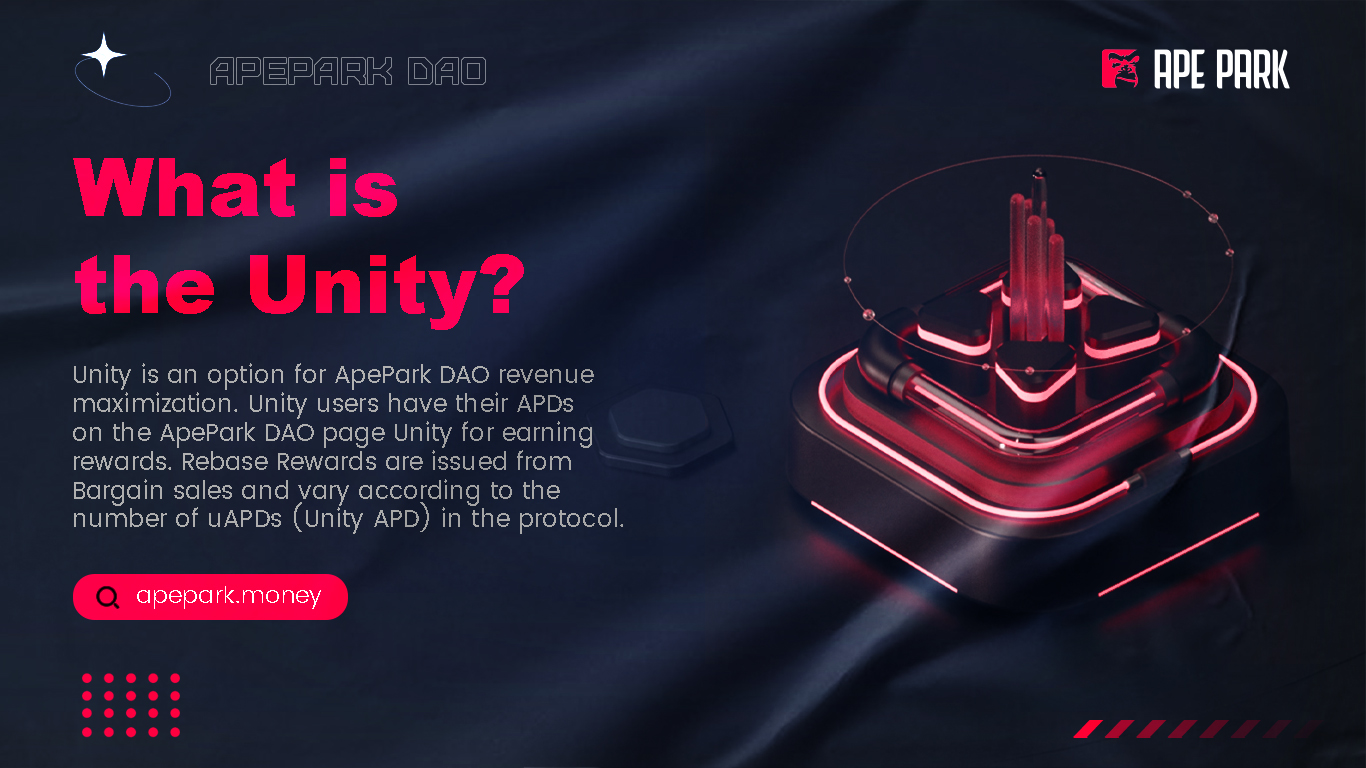
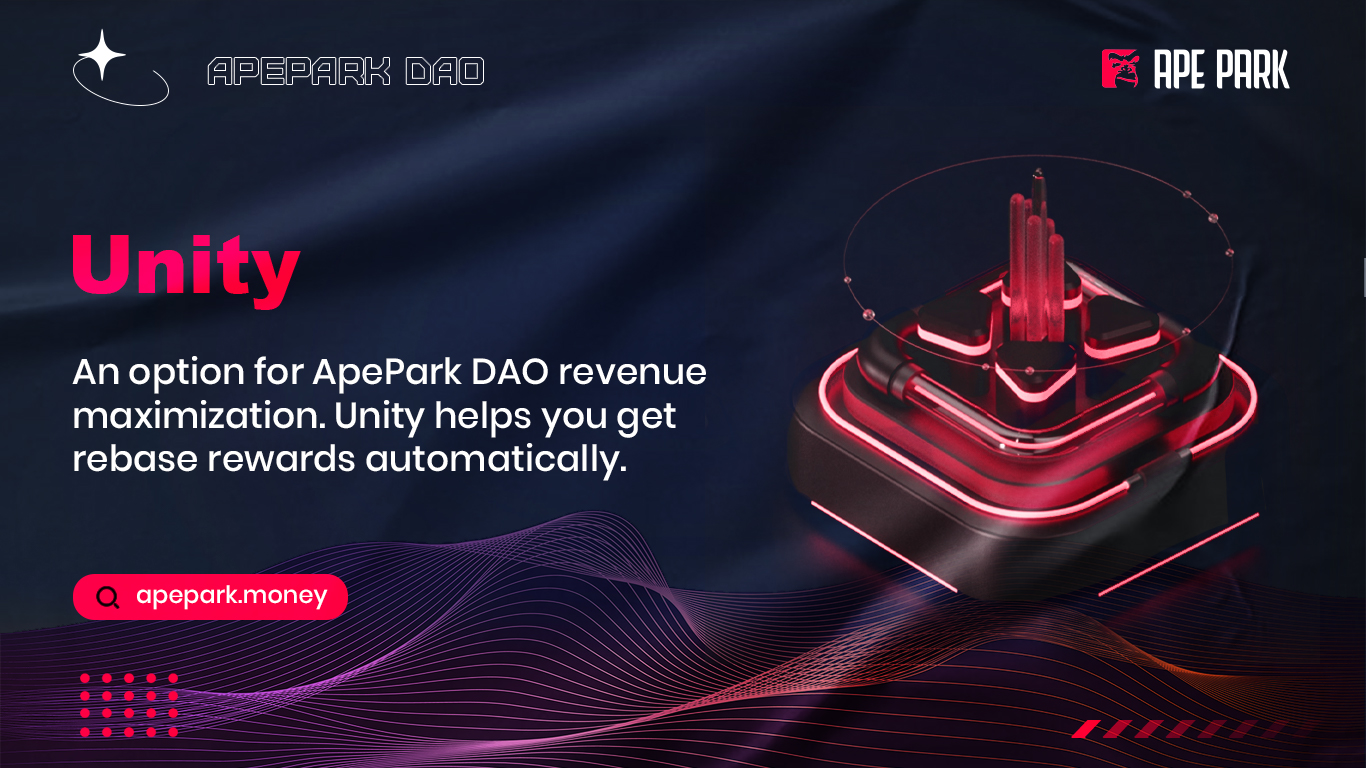
GitBook: [#25] No subject

diff --git a/using-the-website/purchase-a-bargain.md b/using-the-website/purchase-a-bargain.md
@@ -21,7 +21,7 @@ For both types of Bargains, it is a one-click transaction as the user is require
 * **Market Price** is the market price of APD.
 * **You Will Get** tells you how many APD you will get from Bargain.
 * **Debt Ratio** measures the total amount of APD created from Bargains that have yet to be paid out by the protocol.
-* **Vesting Term** measures the period a Bargain takes to fully redeem. This number is in BNB Chain blocks. 540,000 blocks are approximately 5 days or 15 epochs.
+* **Vesting Term** measures the period a Bargain takes to fully redeem. This number is in BNB Chain blocks. 1,512,000 blocks are approximately 14 days or 42 epochs.
 * **Discount** is the difference between the Bargain price and the market price.
 * **Pending Rewards** is the amount of APD you are entitled to receive from Bargain.
 * **Claimable Rewards** is the amount of APD you can claim now. This amount keeps increasing as APD is vested linearly to you over the Bargain period.

diff --git a/mechanism/bouns.md b/mechanism/bouns.md
@@ -2,7 +2,7 @@
 
 ## What is Bouns?
 
-
+![](../.gitbook/assets/Bonus.jpg)
 
 Bonus is as an extra allowance. ApeParkDAO uses the Bonus mechanism to stimulate buying sentiment in the market, and increase and activate potential users who buy Bargain while acquiring liquidity and other reserve assets. A portion of SellFee will go into the Bonus Pool contract. If the Bonus Pool reaches 10,000 USDT, the contract will draw 1 reward from the last 10 addresses that purchased Bargain with more than 1,000 USDT, and the reward amount is 1,000 USDT. The conditions for participating in the Bonus lottery are as follows: addresses that purchase Bargain with an amount of more than 1,000 USDT can participate in the lottery. If there are less than 10 addresses that purchase Bargain with an amount of more than 1000USDT, the Bonus distribution will be cancelled for this round, and the SellFee will enter the Cave to supply the operating funds of ApeParkDAO.
 

diff --git a/basics/ido.md b/basics/ido.md
@@ -2,7 +2,7 @@
 
 ## IDO event
 
-ApeParkDAO IDO is raising a total of $500,000 USDT at $10 per APD.
+ApeParkDAO IDO is raising a total of $500,000 USDT at $5 per APD.
 
 ## How will our IDO be conducted？
 
@@ -14,7 +14,7 @@ Whitelisted participants can access IDO within 24 hours. They can buy any amount
 
 The team plans to allocate the funds raised (USDT) during the IDO event as follows:
 
-* 200,000 USDT (40%) creates liquidity pools at the ratio of 1 APD = 12.5 USDT. LP tokens will be locked in the Cave.
+* 200,000 USDT (40%) creates liquidity pools. LP tokens will be locked in the Cave.
 * 200,000 USDT (40%) for the Cave to ensure the intrinsic value of APD.
 * 100,000 USDT (20%) for buyback and burn
 

diff --git a/mechanism/unity.md b/mechanism/unity.md
@@ -2,6 +2,8 @@
 
 ## What is Unity?
 
+![](../.gitbook/assets/Unity.jpg)
+
 Unity is an option for ApeParkDAO revenue maximization. Unity users have their APDs on the ApeParkDAO page Unity for earning rewards. Rebase Rewards are issued from Bargain sales and vary according to the number of uAPDs (Unity APD) in the protocol.
 
 Unity is a passive and long-term strategy. Your uAPD will gradually increase and your cost base will continue to decline. In other words, even if the market price drops below the price you buy, when most users take the APD they buy to Unity, and Unity is long enough, your uAPD balance will grow faster than the price drop.

diff --git a/mechanism/bargain.md b/mechanism/bargain.md
@@ -2,7 +2,7 @@
 
 ## What is Bargain?
 
-
+![](../.gitbook/assets/Bargain.jpg)
 
 Bargain is the second strategy of ApeParkDAO revenue maximization. Selling Bargain through Bargain to obtain the liquidity and other reserve assets owned by the protocol itself. The agreement announces quotations and terms to Bargain users, such as Bargain price, how many APDs can be purchased by Bargain users and the period of the award. Before the award period expires, Bargain users can claim some of the reward (APD tokens) first, and then they can claim the full amount when it expires.
 

diff --git a/mechanism/er-enforce-rich.md b/mechanism/er-enforce-rich.md
@@ -2,7 +2,7 @@
 
 ## What is ER(Enforce Rich)?
 
-
+![](../.gitbook/assets/ER.jpg)
 
 Enforce Rich translates as the forced enrichment mechanism. ApeParkDAO uses ER mechanism to suppress the double-throw risk of receiving high recommended rewards while buying Bargain at high discounts. Suppose the user received 100 APDs from the recommendation; The user needs to purchase Bargain (100 APD in the case) equal to the recommended reward to activate ER mechanism. This bonus is released in 14 days, Bargain is also released in 14 days and you will receive 200 APD in 14 days.
 

diff --git a/mechanism/doughnut.md b/mechanism/doughnut.md
@@ -2,6 +2,6 @@
 
 ## What is Doughnut?
 
-
+![](../.gitbook/assets/Doughnut.jpg)
 
 ApeParkDAO seeks to encourage long-term investment and more new users to participate in projects. Up to 15% of the recommended rewards are awarded when users recommend more users to purchase Bargain. The award is attributed linearly to the introducer within 14 days. Doughnut is a reference revenue incentive system included in the agreement that rewards users who have worked hard to promote projects. (For Bargain purchases only, not DEX purchases.)

diff --git a/mechanism/sellfee.md b/mechanism/sellfee.md
@@ -2,6 +2,6 @@
 
 ## What is SellFee?
 
-
+![](../.gitbook/assets/Sellfee.jpg)
 
 ApeParkDAO seeks to encourage long-term investment rather than short-term trading. Therefore, a 15% transaction fee is charged for selling APDs. SellFee mechanism is also designed to ensure that APD prices are stable, which ApeParkDAO wants to reduce by suppressing sales.
